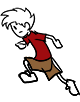
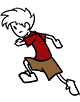
Actualizacion de las animaciones del Player

diff --git a/WASH/src/com/brackeen/javagamebook/tilegame/ResourceManager.java b/WASH/src/com/brackeen/javagamebook/tilegame/ResourceManager.java
@@ -289,17 +289,23 @@ public class ResourceManager {
     public void loadCreatureSprites() {
 
         Image[][] images = new Image[4][];
-
+        
         // load left-facing images
         images[0] = new Image[] {
             loadImage("player1.png"),
             loadImage("player2.png"),
             loadImage("player3.png"),
+            loadImage("player4.png"),
+            loadImage("player5.png"),
+            loadImage("player6.png"),
+            loadImage("player7.png"),
+            loadImage("player8.png"),
             loadImage("fly1.png"),
             loadImage("fly2.png"),
             loadImage("fly3.png"),
             loadImage("grub1.png"),
             loadImage("grub2.png"),
+            loadImage("player.png")
         };
 
         images[1] = new Image[images[0].length];
@@ -315,21 +321,25 @@ public class ResourceManager {
         }
 
         // create creature animations
-        Animation[] playerAnim = new Animation[4];
+        Animation[] playerAnim = new Animation[6];
         Animation[] flyAnim = new Animation[4];
         Animation[] grubAnim = new Animation[4];
         for (int i=0; i<4; i++) {
-            playerAnim[i] = createPlayerAnim(
-                images[i][0], images[i][1], images[i][2]);
+           playerAnim[i] = createPlayerAnim(
+                images[i][0], images[i][1], images[i][2], 
+                    images[i][3], images[i][4], images[i][5],
+                    images[i][6], images[i][7]);
             flyAnim[i] = createFlyAnim(
-                images[i][3], images[i][4], images[i][5]);
+                images[i][8], images[i][9], images[i][10]);
             grubAnim[i] = createGrubAnim(
-                images[i][6], images[i][7]);
+                images[i][11], images[i][12]);
         }
+        playerAnim[4] = createPlayerStanding(images[0][13]);
+        playerAnim[5] = createPlayerStanding(images[1][13]);
 
         // create creature sprites
         playerSprite = new Player(playerAnim[0], playerAnim[1],
-            playerAnim[2], playerAnim[3]);
+            playerAnim[2], playerAnim[3], playerAnim[4]);
         flySprite = new Fly(flyAnim[0], flyAnim[1],
             flyAnim[2], flyAnim[3]);
         grubSprite = new Grub(grubAnim[0], grubAnim[1],
@@ -346,15 +356,37 @@ public class ResourceManager {
      */
 
     private Animation createPlayerAnim(Image player1,
-        Image player2, Image player3)
+        Image player2, Image player3, Image player4,
+        Image player5, Image player6, Image player7,
+        Image player8)
     {
         Animation anim = new Animation();
-        anim.addFrame(player1, 250);
-        anim.addFrame(player2, 150);
         anim.addFrame(player1, 150);
         anim.addFrame(player2, 150);
-        anim.addFrame(player3, 200);
-        anim.addFrame(player2, 150);
+        anim.addFrame(player3, 150);
+        anim.addFrame(player4, 150);
+        anim.addFrame(player5, 150);
+        anim.addFrame(player6, 150);
+        anim.addFrame(player7, 150);
+        anim.addFrame(player8, 150);
+        
+        return anim;
+    }
+    
+    /**
+     * Create Player Animations
+     * 
+     * @param player1
+     * @param player2
+     * @param player3
+     * @return  Animation
+     */
+
+    private Animation createPlayerStanding(Image player1)
+    {
+        Animation anim = new Animation();
+        anim.addFrame(player1, 150);
+        
         return anim;
     }
 

diff --git a/WASH/src/com/brackeen/javagamebook/tilegame/sprites/Creature.java b/WASH/src/com/brackeen/javagamebook/tilegame/sprites/Creature.java
@@ -23,6 +23,7 @@ public abstract class Creature extends Sprite {
     private Animation right;
     private Animation deadLeft;
     private Animation deadRight;
+    private Animation standing;
     private int state;
     private long stateTime;
 
@@ -41,6 +42,26 @@ public abstract class Creature extends Sprite {
         this.right = right;
         this.deadLeft = deadLeft;
         this.deadRight = deadRight;
+        state = STATE_NORMAL;
+    }
+    
+    /**
+     * Creates a new Creature with the specified Animations.
+     * @param left
+     * @param right
+     * @param deadLeft
+     * @param deadRight 
+     * @param standing
+     */
+    public Creature(Animation left, Animation right,
+        Animation deadLeft, Animation deadRight, Animation standing)
+    {
+        super(right);
+        this.left = left;
+        this.right = right;
+        this.deadLeft = deadLeft;
+        this.deadRight = deadRight;
+        this.standing = standing;
         state = STATE_NORMAL;
     }
 
@@ -162,6 +183,8 @@ public abstract class Creature extends Sprite {
         }
         else if (getVelocityX() > 0) {
             newAnim = right;
+        }else if (getVelocityX() == 0){
+            newAnim = standing;
         }
         if (state == STATE_DYING && newAnim == left) {
             newAnim = deadLeft;

diff --git a/WASH/src/com/brackeen/javagamebook/tilegame/sprites/Player.java b/WASH/src/com/brackeen/javagamebook/tilegame/sprites/Player.java
@@ -24,7 +24,7 @@ public class Player extends Creature {
      */
     
     public Player(Animation left, Animation right,
-        Animation deadLeft, Animation deadRight)
+        Animation deadLeft, Animation deadRight, Animation standing)
     {
         super(left, right, deadLeft, deadRight);
         firing = false;
